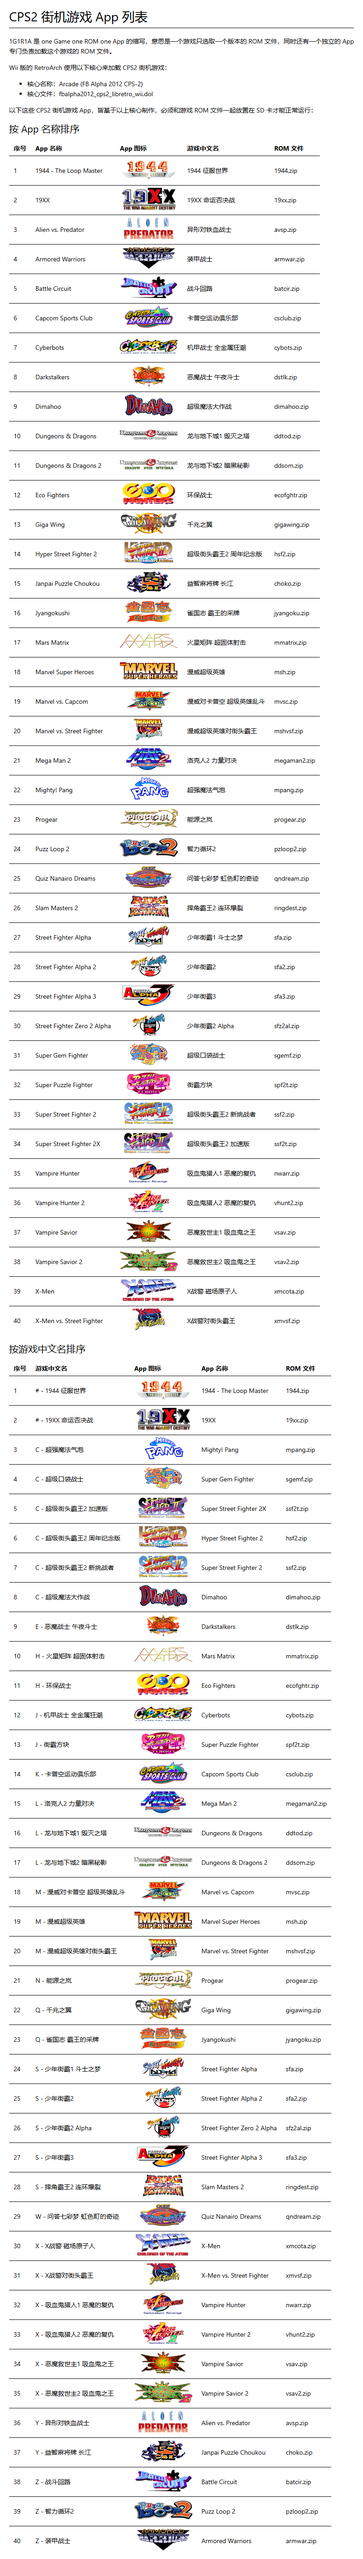
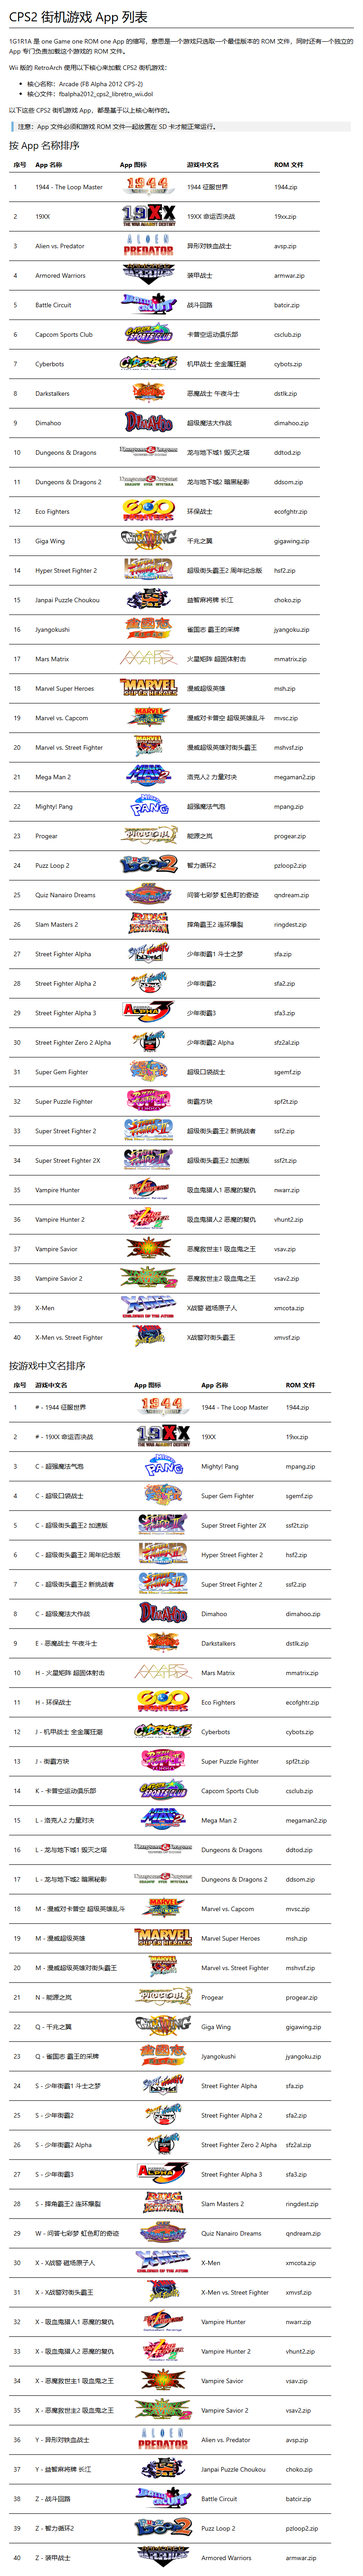
update CPS2 Apps (RA核心1.22.2版).md

Changed region(s): [[0.0312, 0.0, 0.75, 0.9986], [0.75, 0.0624, 0.9062, 0.9674], [0.0312, 0.6241, 0.0625, 0.9674]]

diff --git a/CPS2 Apps (RA核心1.22.2版).md b/CPS2 Apps (RA核心1.22.2版).md
@@ -1,12 +1,14 @@
 # CPS2 街机游戏 App 列表
 
-1G1R1A 是 one Game one ROM one App 的缩写，意思是一个游戏只选取一个版本的 ROM 文件，同时还有一个独立的 App 专门负责加载这个游戏的 ROM 文件。
+1G1R1A 是 one Game one ROM one App 的缩写，意思是一个游戏只选取一个最佳版本的 ROM 文件，同时还有一个独立的 App 专门负责加载这个游戏的 ROM 文件。
 
 Wii 版的 RetroArch 使用以下核心来加载 CPS2 街机游戏：
 - 核心名称：Arcade (FB Alpha 2012 CPS-2)
 - 核心文件：fbalpha2012_cps2_libretro_wii.dol
 
-以下这些 CPS2 街机游戏 App，皆基于以上核心制作，必须和游戏 ROM 文件一起放置在 SD 卡才能正常运行：
+以下这些 CPS2 街机游戏 App，都是基于以上核心制作的。
+
+> 注意：App 文件必须和游戏 ROM 文件一起放置在 SD 卡才能正常运行。
 
 ## 按 App 名称排序
 
